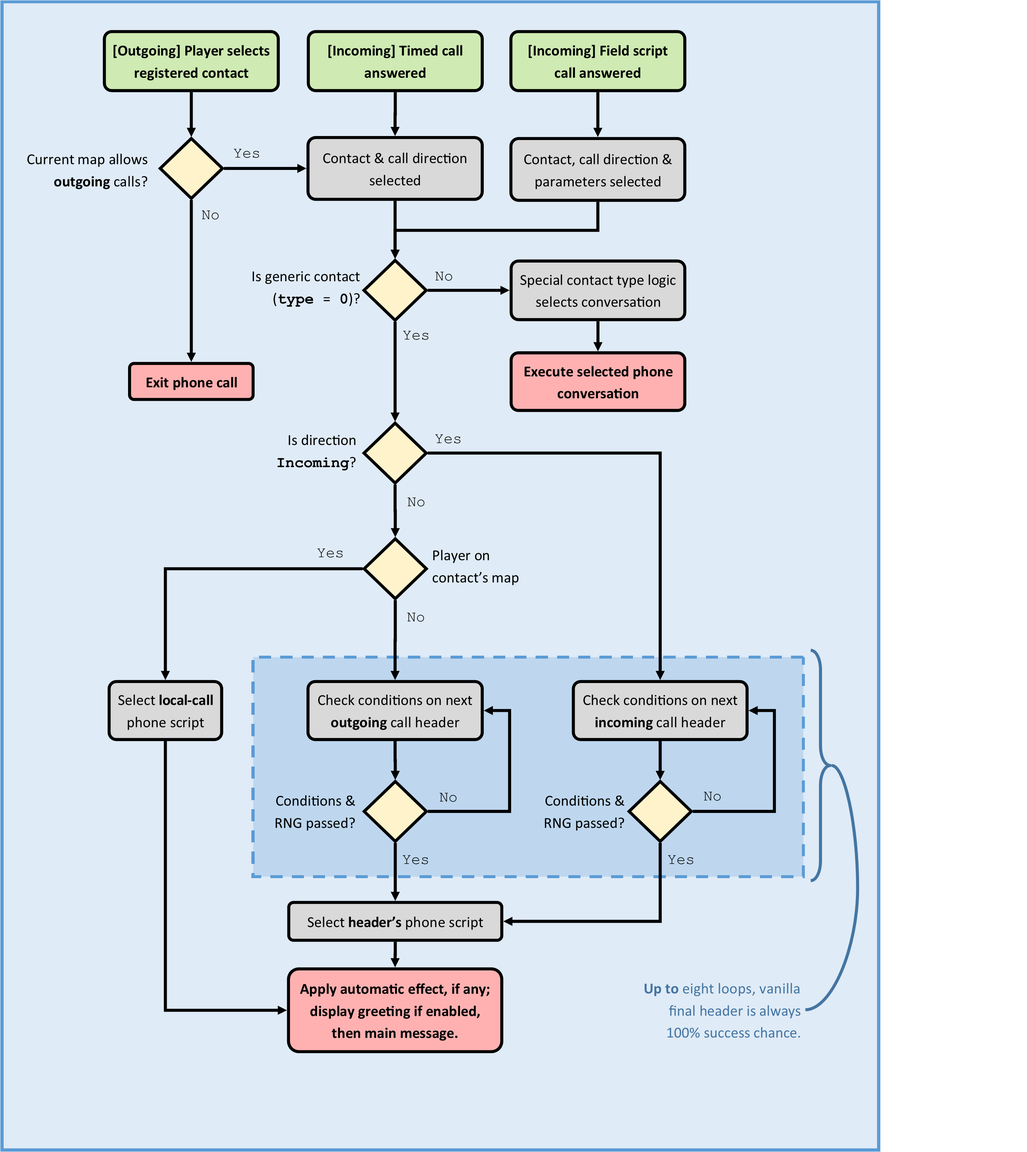
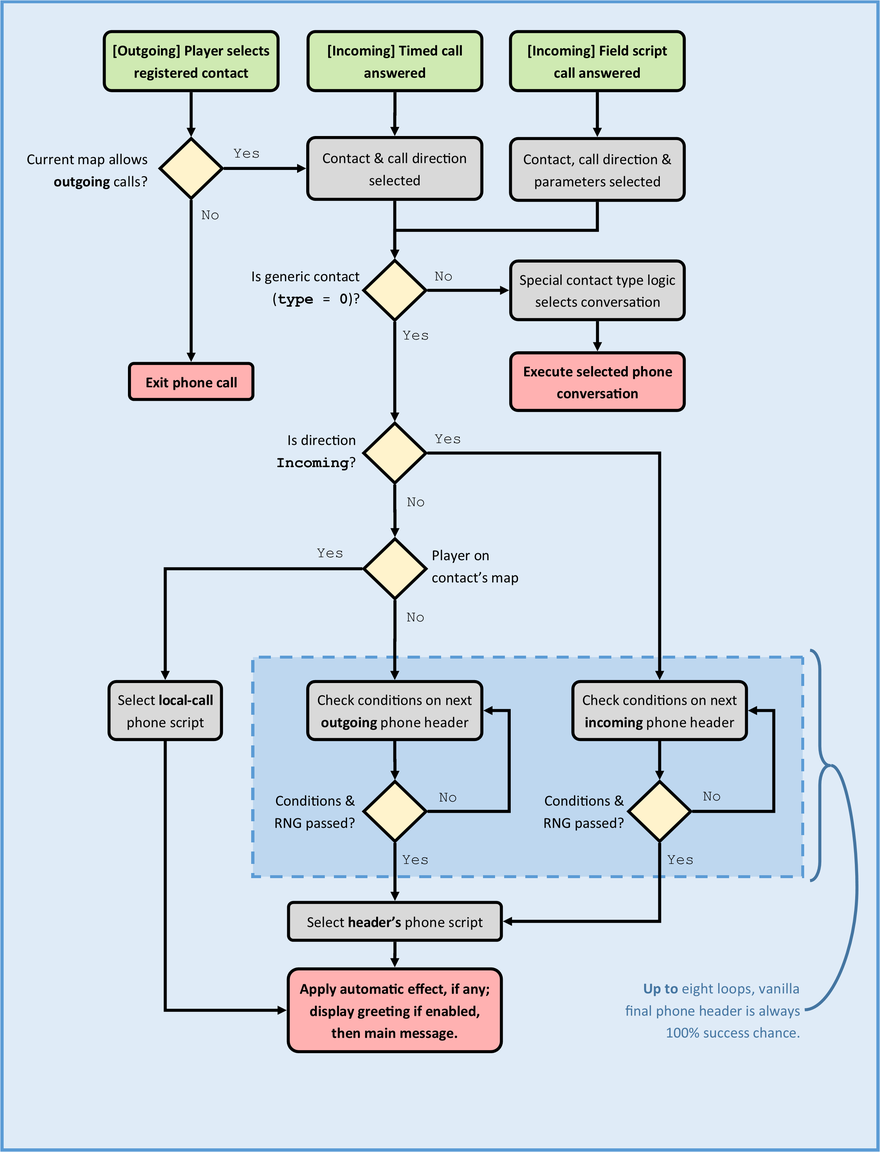
renamed "call header" to "phone header" to be consistent with phone scripts

diff --git a/docs/generation-iv/guides/hgss-pokegear_phone_system/hgss-pokegear_phone_system.md b/docs/generation-iv/guides/hgss-pokegear_phone_system/hgss-pokegear_phone_system.md
@@ -24,7 +24,7 @@ The system is easiest to follow in the same order as a call moves through it:
 
 1. [**Phonebook data**](#phonebook-data) defines the contacts and their properties; [field scripts register their numbers](#registering-phone-numbers).
 2. [**Incoming and outgoing calls**](#incoming-and-outgoing-calls) explains how a call starts and, for a random incoming call, how the caller is chosen.
-3. [**Phone conversations**](#phone-conversations) explains what the chosen contact says and does. A generic contact (contact type `0`) uses call headers and phone scripts; a special contact uses its own selection logic.
+3. [**Phone conversations**](#phone-conversations) explains what the chosen contact says and does. A generic contact (contact type `0`) uses phone headers and phone scripts; a special contact uses its own selection logic.
 4. [**Trainer rematches**](#trainer-rematches) and [**gifts after calls and rematches**](#gifts-after-calls-and-rematches) explain how battles are selected and items are awarded.
 
 Later sections describe [saved phone state](#saved-phone-state), illustrate the system through [case studies](#case-studies), and give [example edits](#example-edits). Expansion sections cover [rematch tiers](#extending-rematch-tiers), [queued event calls](#expanding-queued-event-calls), and [additional contacts](#expanding-beyond-75-contacts).
@@ -44,7 +44,7 @@ The following table maps the phone data and code.
 |---|---|---|
 | Contact records | `tel/pmtel_book.dat` | 75 contacts with their contact type, trainer battle, map, item, local-call phone script, schedule, and random-call group. |
 | Contact text-archive lookup | ARM9 `0x10847C`-`0x108511` | One message-archive ID for each contact ID; archive message `0` is the contact name. |
-| Conversation data | Overlay 101 `0x1143C`-`0x13B6B` | Generic call headers, plus phone-script and greeting tables also used by some special contacts. |
+| Conversation data | Overlay 101 `0x1143C`-`0x13B6B` | Generic phone headers, plus phone-script and greeting tables also used by some special contacts. |
 | Contact-specific conversation code | Overlay 101 `0xB0A4`-`0xCD3F` | Special-contact selectors and display routines, with generic-call code interleaved. See the [decomp routines](https://github.com/pret/pokeheartgold/tree/master/src/application/pokegear/phone/scripts). |
 | Queued system-event definitions | Overlay 2 `0xE104`-`0xE151` | Caller, phone-script ID, and forced-pickup setting for the 13 queued triggers. |
 | Rematch battle lookup | Overlay 26 `0x20C`-`0x4FF` | Six battle IDs for each of 63 ordinary-trainer or Gym Leader rematch rows. |
@@ -187,7 +187,7 @@ Values from `tel/pmtel_book.dat`, in file order. Record offsets are hexadecimal;
 
 | Value | Decomp name | Contacts / effect |
 |:---:|---|---|
-| `0` | `GENERIC` | 45 contacts (60% of the phonebook). Uses generic call-header and phone-script tables. |
+| `0` | `GENERIC` | 45 contacts (60% of the phonebook). Uses generic phone-header and phone-script tables. |
 | `1` | `MOM` | Mom's savings and gift-queue logic. |
 | `2` | `PROF_ELM` | Elm's story-flag, badge, Egg, and Pokérus logic. |
 | `3` | `PROF_OAK` | Oak's dedicated call logic. |
@@ -318,6 +318,12 @@ Unlike in the original Generation II games, the Pokégear phonebook can hold eve
 
 > Research: [pokeheartgold: phone ring manager and queued-event table](https://github.com/pret/pokeheartgold/blob/master/src/field/overlay_2_gear_phone.c), [map-header phone permissions](https://github.com/pret/pokeheartgold/blob/master/include/map_header.h).
 
+Incoming calls start in three ways:
+
+- **Field-script calls** start from a scripted event, such as entering a map or speaking to an NPC.
+- **Random incoming calls** provide recurring conversations, rematches and gifts, subject to conditions including story progress.
+- **Queued event calls** follow a recorded event, such as Elm's Egg hatching, without requiring a field script on the player's current map. They wait until incoming calls are permitted.
+
 Incoming and outgoing calls use different map permissions and different dialogue selection paths.
 
 | Direction | Decomp function | What it controls |
@@ -331,7 +337,7 @@ The call-mode field (`isScriptedCall` in decomp) uses `0` for normal outgoing an
 
 ### Outgoing
 
-An outgoing call begins when the player selects a registered contact in the Pokégear. Outgoing calls must be enabled in the current map header. The selected contact's `type`, `mapId`, and, for contacts of type `0`, the generic outgoing call headers determine the conversation.
+An outgoing call begins when the player selects a registered contact in the Pokégear. Outgoing calls must be enabled in the current map header. The selected contact's `type`, `mapId`, and, for contacts of type `0`, the generic outgoing phone headers determine the conversation.
 
 ### Incoming: time trigger
 
@@ -507,7 +513,7 @@ Not every incoming call uses the queued trigger-bit table. A normal field script
 
 `predefinedScript` is also limited to `0`-`255` by the call manager.
 
-Generic contacts ignore the supplied script value and use their incoming call headers if `SetPhoneCall` *[contactId]* `2` `0`, followed by `RunPhoneCall` were used.
+Generic contacts ignore the supplied script value and use their incoming phone headers if `SetPhoneCall` *[contactId]* `2` `0`, followed by `RunPhoneCall` were used.
 :::
 
 #### Starting a call on map entry
@@ -526,35 +532,35 @@ Use **`MecScript` (`0x261`, decomp `ScrCmd_609`)** to reset the following Pokém
 
 A **phone conversation** is the interaction shown to the player. Its messages and effects come from a **phone-script record** or specialised call code.
 
-- **Generic contacts** (type `0`; 45 of the 75 contacts) use call headers to select phone scripts. Their conversations are linear, with no Yes/No choices.
+- **Generic contacts** (type `0`; 45 of the 75 contacts) use phone headers to select phone scripts. Their conversations are linear, with no Yes/No choices.
 - **Special contacts** (all other types) use their own selection code and may reuse phone scripts. Some conversations are interactive: Mom can ask about savings, and Gym Leaders can ask whether to arrange a rematch.
 
 Special-contact conditions are defined in the [phone scripts source directory](https://github.com/pret/pokeheartgold/tree/master/src/application/pokegear/phone/scripts). The sections below cover [Professor Elm](#professor-elm-story-calls-and-status-calls) and [all 16 Gym Leaders](#gym-leader-conversations).
 
 ![](resources/phone_conversations_flow.png)
 
-Conversation selection and display run in the phone application’s compiled code. A field script can launch the call, but does not perform the call-header checks or apply the phone-script effect itself.
+Conversation selection and display run in the phone application’s compiled code. A field script can launch the call, but does not perform the phone-header checks or apply the phone-script effect itself.
 
 ### Phone conversations: the four parts
 
-> Research: [pokeheartgold: generic call headers and greetings](https://github.com/pret/pokeheartgold/blob/master/src/application/pokegear/phone/phone_generic_headers.c), [phone-script definitions](https://github.com/pret/pokeheartgold/blob/master/src/application/pokegear/phone/phone_script_defs.c), [generic call selection](https://github.com/pret/pokeheartgold/blob/master/src/application/pokegear/phone/scripts/phone_scripts_generic.c).
+> Research: [pokeheartgold: generic phone headers and greetings](https://github.com/pret/pokeheartgold/blob/master/src/application/pokegear/phone/phone_generic_headers.c), [phone-script definitions](https://github.com/pret/pokeheartgold/blob/master/src/application/pokegear/phone/phone_script_defs.c), [generic call selection](https://github.com/pret/pokeheartgold/blob/master/src/application/pokegear/phone/scripts/phone_scripts_generic.c).
 
 The same four parts explain generic and special-contact conversations:
 
 | Part | Purpose | How it works |
 |---|---|---|
-| **Conversation selection** | Chooses what the contact will discuss. | Generic contacts use [call headers](#call-headers-selecting-a-conversation), or their local-call phone script. Special contacts use type-specific code. Queued and field-script calls can supply a script ID or selection index. |
+| **Conversation selection** | Chooses what the contact will discuss. | Generic contacts use [phone headers](#phone-headers-selecting-a-conversation), or their local-call phone script. Special contacts use type-specific code. Queued and field-script calls can supply a script ID or selection index. |
 | **Messages and effects** | Determines dialogue, choices and changes to game state. | A [phone-script record](#phone-scripts-message-and-automatic-effect) supplies message IDs and an optional automatic effect, or specialised code controls the conversation. |
 | [**Greeting selection (optional)**](#greeting-selection-selecting-an-opening-remark) | Selects a separate opening remark. | Calls using the shared greeting routine select from the greeting table. Other conversations can include their greeting in their own text. |
 | [**Dialogue text**](#dialogue-common-greeting-text-and-contact-specific-text) | Supplies the displayed words, including substitutions. | The contact's text archive supplies its messages; shared greetings use archive `0640`. |
 
 For calls using the basic phone-script display routine, the automatic effect is applied first, followed by any shared greeting and the main message.
 
-### Call headers: selecting a conversation
+### Phone headers: selecting a conversation
 
-> Research: [pokeheartgold: generic call headers](https://github.com/pret/pokeheartgold/blob/master/src/application/pokegear/phone/phone_generic_headers.c), [generic header conditions and selection](https://github.com/pret/pokeheartgold/blob/master/src/application/pokegear/phone/scripts/phone_scripts_generic.c).
+> Research: [pokeheartgold: generic phone headers](https://github.com/pret/pokeheartgold/blob/master/src/application/pokegear/phone/phone_generic_headers.c), [generic header conditions and selection](https://github.com/pret/pokeheartgold/blob/master/src/application/pokegear/phone/scripts/phone_scripts_generic.c).
 
-Every contact has 16 six-byte call-header slots: eight incoming and eight outgoing, regardless of contact type. The table occupies Overlay 101 offsets `0x11F4C`-`0x13B6B`. Only the generic contact route (type `0`) uses these headers to select a conversation; special-contact logic uses its own selection route.
+Every contact has 16 six-byte phone-header slots: eight incoming and eight outgoing, regardless of contact type. The table occupies Overlay 101 offsets `0x11F4C`-`0x13B6B`. Only the generic contact route (type `0`) uses these headers to select a conversation; special-contact logic uses its own selection route.
 
 For contact ID `c`, the outgoing block begins at `0x11F4C + (c × 0x60)` and the incoming block at `0x11F7C + (c × 0x60)`. Each block holds eight six-byte slots; add `slot × 6` for slot `0`-`7`.
 
@@ -569,16 +575,16 @@ bytes 4-5: little-endian phone-script ID
 
 The generic selector checks up to eight slots for the current direction, in order. Unused slots use `NIL` (`00 64 00 00 00 00`), a terminator with unused 100%-chance/script-`0` fields, or `NONE` (`FF 00 00 00 00 00`), a zeroed placeholder. An outgoing call made while the player is on the contact's own `mapId` bypasses those outgoing slots. It forces `scriptType` to `0` and uses the contact record's `phoneScriptIfLocal` value as the phone-script ID.
 
-#### Call-header condition types
+#### Phone-header condition types
 
-The first byte of a call header determines whether its phone script is eligible. Where a condition reaches its final chance test, it makes a random roll from `0` through `99` and succeeds when the result is **less than or equal to** the header's chance byte. Thus chance `100` always succeeds, while values `0`-`99` succeed `1%`-`100%` of the time.
+The first byte of a phone header determines whether its phone script is eligible. Where a condition reaches its final chance test, it makes a random roll from `0` through `99` and succeeds when the result is **less than or equal to** the header's chance byte. Thus chance `100` always succeeds, while values `0`-`99` succeed `1%`-`100%` of the time.
 
 <details>
 <summary>Click for details...</summary>
 
 | Byte | Decomp name | Header is eligible when... |
 |:---:|---|---|
-| `00` | `NIL` | Stops the current group of up to eight call headers. Vanilla uses `00 64 00 00 00 00`; the chance and phone-script fields are not read. |
+| `00` | `NIL` | Stops the current group of up to eight phone headers. Vanilla uses `00 64 00 00 00 00`; the chance and phone-script fields are not read. |
 | `01` | `RAND1` | Its chance roll succeeds. Identical to `RAND6`. |
 | `02` | `FIGHTPOSTROCKETS` | No rematch is pending and no phone-call gift is queued (`PhoneRematch.seeking` and `PhoneRematch.giftItem` are clear); if this header uses `scriptType` `0` and selects a `REMATCH` phone script, flag `0xC6` (`198`, decomp name: `FLAG_BEAT_RADIO_TOWER_ROCKETS`) is set; then its chance roll succeeds. |
 | `03` | `POSTROCKETWEEKTIME` | `FLAG_BEAT_RADIO_TOWER_ROCKETS` (`0xC6`) is set, the contact's weekday (`rematchWeekday`) and time-of-day (`rematchTimeOfDay`) fields match the current time, and its chance roll succeeds. |
@@ -587,13 +593,13 @@ The first byte of a call header determines whether its phone script is eligible.
 | `06` | `RAND6` | Its chance roll succeeds. Identical to `RAND1`. |
 | `07` | `FIGHTPOSTROCKETSNOTBUGCONTEST` | `FLAG_BEAT_RADIO_TOWER_ROCKETS` (`0xC6`) is set; a rematch is already pending (`PhoneRematch.seeking` is set); either the contact's `mapId` is not National Park or `FLAG_UNK_996` (`0x996`) is clear; then its chance roll succeeds. |
 | `08` | `GIFTNOTBUGCONTEST` | A phone-call gift is already queued (`PhoneRematch.giftItem` is set); either the contact's `mapId` is not National Park or `FLAG_UNK_996` (`0x996`) is clear; then its chance roll succeeds. |
-| `FF` | `NONE` | Stops the current group of up to eight call headers. Vanilla uses `FF 00 00 00 00 00` for unused slots. |
+| `FF` | `NONE` | Stops the current group of up to eight phone headers. Vanilla uses `FF 00 00 00 00 00` for unused slots. |
 
 `NIL` and `NONE` stop the scan. If no header passes, the selector uses the last tested header even though its condition failed; an initial terminator returns script `0`. Keep an unconditional final candidate when editing headers.
 
 </details>
 
-`scriptType` is unrelated to the contact type and to the result stored in the phone script. For generic call headers, vanilla uses these three values:
+`scriptType` is unrelated to the contact type and to the result stored in the phone script. For generic phone headers, vanilla uses these three values:
 
 <details>
 <summary>Click for details...</summary>
@@ -609,7 +615,7 @@ The field is a direct index into the game's table of call code. It is not anothe
 </details>
 
 <details>
-<summary>Call-header binary reference</summary>
+<summary>Phone-header binary reference</summary>
 
 The generic selector is `PhoneCall_GetScriptId_Generic`. The generic display-code pointers for `scriptType` `0`, `1`, and `2` are in the Overlay 101 dispatch table at file offset `0x10F3C`; they point to RAM addresses `0x21F2681`, `0x21F2F51`, and `0x21F2FFD` respectively.
 
@@ -647,7 +653,7 @@ For example, Gina's Leaf Stone script `257` at Overlay 101 offset `0x11A42` is `
 
 The table has 456 records (IDs `0`-`455`). Only script `0` is all zeroes; it is the shared `PHONE_SCRIPT_NONE` record, not a spare slot.
 
-The following 15 populated records appear to have no vanilla selection path (call headers, phonebook local-call IDs, queued events, field-script calls and special-contact selectors), they are possible candidates for reuse without enlarging the table.
+The following 15 populated records appear to have no vanilla selection path (phone headers, phonebook local-call IDs, queued events, field-script calls and special-contact selectors), they are possible candidates for reuse without enlarging the table.
 
 <details>
 <summary>Unreferenced records and Overlay 101 offsets</summary>
@@ -661,7 +667,7 @@ The following 15 populated records appear to have no vanilla selection path (cal
 | Chad | `113` (`0x116E2`); `114` (`0x116E8`); `115` (`0x116EE`) |
 | Brent | `121` (`0x11712`); `122` (`0x11718`); `123` (`0x1171E`) |
 
-All contain message IDs with result `NONE` and both parameters `0`. Be aware that any existing contact archive's messages may still be used by other conversation code. Supply message IDs from the intended caller's archive and select the reused record through that caller's call headers or special-call logic.
+All contain message IDs with result `NONE` and both parameters `0`. Be aware that any existing contact archive's messages may still be used by other conversation code. Supply message IDs from the intended caller's archive and select the reused record through that caller's phone headers or special-call logic.
 
 Elm's script `6` is a separate case: his direct-call table references it, but no vanilla field script selects that table entry. It is therefore not included in the unreferenced list.
 
@@ -728,7 +734,7 @@ This section includes some details on some of the special call logic (that doesn
 <details>
 <summary>Click for details...</summary>
 
-Elm is contact type `2`, so he does not use generic call headers. His selector has three routes:
+Elm is contact type `2`, so he does not use generic phone headers. His selector has three routes:
 
 | Call route | How the conversation is chosen |
 |---|---|
@@ -738,7 +744,7 @@ Elm is contact type `2`, so he does not use generic call headers. His selector h
 
 Elm's selector, `PhoneCall_GetScriptId_ProfElm`, starts at Overlay 101 offset `0xB2E8` (RAM `0x21F2A28`).
 
-All three routes use display handler `0`, the ordinary phone-script display routine (`GearPhoneCall_Simple` at Overlay 101 offset `0xAF40`). The direct-call and queued-call routes therefore choose an existing phone script; they do not use generic call headers.
+All three routes use display handler `0`, the ordinary phone-script display routine (`GearPhoneCall_Simple` at Overlay 101 offset `0xAF40`). The direct-call and queued-call routes therefore choose an existing phone script; they do not use generic phone headers.
 
 <details>
 <summary>Outgoing calls: priority conditions and phone-script IDs</summary>
@@ -774,7 +780,7 @@ For an outgoing call, the first matching condition wins:
 <details>
 <summary>Click for details...</summary>
 
-All sixteen Gym Leaders use contact type `12`. They do not use generic call headers or the ordinary Radio Tower availability condition. Their shared selector chooses display handler `13` for an outgoing call and `14` for an incoming call; these are handler indexes, not contact types or phone-script IDs.
+All sixteen Gym Leaders use contact type `12`. They do not use generic phone headers or the ordinary Radio Tower availability condition. Their shared selector chooses display handler `13` for an outgoing call and `14` for an incoming call; these are handler indexes, not contact types or phone-script IDs.
 
 The shared routines start at these Overlay 101 offsets:
 
@@ -837,7 +843,7 @@ For ordinary generic contacts, flag `0xC6` (`198`, `FLAG_BEAT_RADIO_TOWER_ROCKET
 <details>
 <summary>Changing the availability flag: binary locations and alternative milestones</summary>
 
-The three [call-header conditions](#call-header-condition-types) below read this flag. File offsets are in Overlay 101, which loads at `0x21E7740`:
+The three [phone-header conditions](#phone-header-condition-types) below read this flag. File offsets are in Overlay 101, which loads at `0x21E7740`:
 
 | Header condition | What the condition adds | Function entry | `0xC6` load |
 | --- | --- | --- | --- |
@@ -856,7 +862,7 @@ The following existing low-byte milestone flags could be substituted for some ot
 | `FLAG_GOT_TM30_FROM_MORTY` (`0xA6`, `166`) | `A6` | Beating Morty and receiving TM30. |
 | `FLAG_GOT_HM03` (`0xA2`, `162`) | `A2` | Receiving HM03 at the Dance Theatre. |
 
-Use these existing flags as read-only conditions; changing their setters affects their original behaviour. Tier unlocks and the other call-header conditions still apply.
+Use these existing flags as read-only conditions; changing their setters affects their original behaviour. Tier unlocks and the other phone-header conditions still apply.
 
 </details>
 
@@ -1085,11 +1091,11 @@ Within `PhoneCallPersistentState`, Mom’s queue begins at `0x12C`, the followin
 
 ### Picnicker Gina's Leaf Stone call
 
-> Research: [pokeheartgold: generic call headers](https://github.com/pret/pokeheartgold/blob/master/src/application/pokegear/phone/phone_generic_headers.c), [phone-script definitions](https://github.com/pret/pokeheartgold/blob/master/src/application/pokegear/phone/phone_script_defs.c), [shared phone-trainer field script](https://github.com/pret/pokeheartgold/blob/master/files/fielddata/script/scr_seq/scr_seq_0953.s).
+> Research: [pokeheartgold: generic phone headers](https://github.com/pret/pokeheartgold/blob/master/src/application/pokegear/phone/phone_generic_headers.c), [phone-script definitions](https://github.com/pret/pokeheartgold/blob/master/src/application/pokegear/phone/phone_script_defs.c), [shared phone-trainer field script](https://github.com/pret/pokeheartgold/blob/master/files/fielddata/script/scr_seq/scr_seq_0953.s).
 
 Gina's Leaf Stone call is an **incoming** generic call and a **phone-call gift**. It is not a rematch reward.
 
-First, the [incoming random-call selector](#incoming-time-trigger) must choose Gina: she must be registered, eligible for the chosen `unkF` group, and not excluded by the current map or her group's recent-caller history. The generic code then checks Gina's incoming [call headers](#call-headers-selecting-a-conversation) in priority order. Her seven candidate headers are followed by a terminating control row:
+First, the [incoming random-call selector](#incoming-time-trigger) must choose Gina: she must be registered, eligible for the chosen `unkF` group, and not excluded by the current map or her group's recent-caller history. The generic code then checks Gina's incoming [phone headers](#phone-headers-selecting-a-conversation) in priority order. Her seven candidate headers are followed by a terminating control row:
 
 | Priority | Condition | Chance value | Phone script | Purpose |
 |:---:|---|:---:|:---:|---|
@@ -1109,11 +1115,11 @@ The call does not give the item directly. When the player next talks to Gina, he
 
 ### Youngster Joey's rematch
 
-> Research: [pokeheartgold: generic call headers](https://github.com/pret/pokeheartgold/blob/master/src/application/pokegear/phone/phone_generic_headers.c), [ordinary generic call logic](https://github.com/pret/pokeheartgold/blob/master/src/application/pokegear/phone/scripts/phone_scripts_generic.c), [Overlay 26 rematch selector](https://github.com/pret/pokeheartgold/blob/master/src/overlay_26_022598C0.c).
+> Research: [pokeheartgold: generic phone headers](https://github.com/pret/pokeheartgold/blob/master/src/application/pokegear/phone/phone_generic_headers.c), [ordinary generic call logic](https://github.com/pret/pokeheartgold/blob/master/src/application/pokegear/phone/scripts/phone_scripts_generic.c), [Overlay 26 rematch selector](https://github.com/pret/pokeheartgold/blob/master/src/overlay_26_022598C0.c).
 
 Joey is a generic (type `0`) phone trainer on Route 30. His contact record supplies the original trainer battle, a Monday/day schedule, and a fixed HP Up rematch reward.
 
-If no rematch is already pending and the player calls from another map on Monday during the day, Joey's outgoing `POSTROCKETWEEKTIME` call header selects phone script `033`. It requires the Radio Tower flag `0xC6` and sets Joey's pending-rematch state. If Joey is chosen for an ordinary random incoming call, his separate incoming header can offer the same rematch without the weekday/time requirement. Either route leads to the same pending state; see [Rematch availability conditions](#rematch-availability-conditions).
+If no rematch is already pending and the player calls from another map on Monday during the day, Joey's outgoing `POSTROCKETWEEKTIME` phone header selects phone script `033`. It requires the Radio Tower flag `0xC6` and sets Joey's pending-rematch state. If Joey is chosen for an ordinary random incoming call, his separate incoming header can offer the same rematch without the weekday/time requirement. Either route leads to the same pending state; see [Rematch availability conditions](#rematch-availability-conditions).
 
 When the player next speaks to Joey, the shared trainer field script finds his Overlay 26 row from his trainer ID. For his first upgraded team, two separate flags matter: `0xC6` (`198`) allows the phone call to offer a rematch; `0x97D` (`2429`) unlocks entry `2` when the battle is selected. Vanilla Radio Tower completion sets both. With only `0xC6` set and no tier flags unlocked, a rematch can be arranged but falls back to Joey's original team. After a victory, the field script clears the pending rematch and awards his HP Up reward if there is Bag space. See [Rematch flow](#rematch-flow) and [Gifts after calls and rematches](#gifts-after-calls-and-rematches).
 
@@ -1137,7 +1143,7 @@ Answering clears trigger bit `12`, but leaves the purchase queued. At a Poké Ma
 
 > Research: [pokeheartgold: Gym Leader phone logic](https://github.com/pret/pokeheartgold/blob/master/src/application/pokegear/phone/scripts/phone_scripts_gym_leader.c), [Overlay 26 rematch selector](https://github.com/pret/pokeheartgold/blob/master/src/overlay_26_022598C0.c).
 
-Falkner is a special contact (type `12`), so his outgoing call does not use generic call headers or the ordinary Radio Tower availability condition. The player must call from another map, hold all 16 badges, have no rematch already pending, and call at Falkner's configured weekday and time. The call then asks whether to arrange the battle; accepting sets Falkner's pending-rematch state.
+Falkner is a special contact (type `12`), so his outgoing call does not use generic phone headers or the ordinary Radio Tower availability condition. The player must call from another map, hold all 16 badges, have no rematch already pending, and call at Falkner's configured weekday and time. The call then asks whether to arrange the battle; accepting sets Falkner's pending-rematch state.
 
 The Fighting Dojo script checks Falkner's Overlay 26 row `47` through `GetPhoneBookRematch`. A nonzero result makes him appear, but his interaction launches the fixed trainer battle ID `712`. Changing the row alone will not change his team; see [Gym Leader rematches](#gym-leader-rematches).
 
@@ -1207,7 +1213,7 @@ These options can be used independently or combined to increase Gina's incoming 
 
 #### Increase Gina's gift-offer chance
 
-1. Open decompressed `ov101.bin` from your DSPRE contents folder. See [Call headers](#call-headers-selecting-a-conversation).
+1. Open decompressed `ov101.bin` from your DSPRE contents folder. See [Phone headers](#phone-headers-selecting-a-conversation).
 2. At `0x131F5`, replace `0A` with `31`. This increases the gift-offer chance from 11% to 50% when its header is reached and eligible. If you have already swapped the gift and rematch headers, edit `0x131EF` instead.
 3. Save the file, move any automatically generated backup files outside the contents folder, then rebuild the ROM using DSPRE.
 
@@ -1220,7 +1226,7 @@ These options can be used independently or combined to increase Gina's incoming 
 
 #### Reduce Gina's competing rematch offers
 
-1. Open decompressed `ov101.bin` from your DSPRE contents folder. See [Call-header condition types](#call-header-condition-types).
+1. Open decompressed `ov101.bin` from your DSPRE contents folder. See [Phone-header condition types](#phone-header-condition-types).
 2. At `0x131EF`, replace `1E` with `09`. This reduces the rematch-offer chance from 31% to 10%, allowing more calls to reach the gift header.
 3. Save the file, move any automatically generated backup files outside the contents folder, then rebuild the ROM using DSPRE.
 
@@ -1246,7 +1252,7 @@ These options can be used independently or combined to increase Gina's incoming 
 
 #### Allow Gina to offer a Leaf Stone when called by the Player
 
-1. Open decompressed `ov101.bin` from your DSPRE contents folder. See [Call headers](#call-headers-selecting-a-conversation).
+1. Open decompressed `ov101.bin` from your DSPRE contents folder. See [Phone headers](#phone-headers-selecting-a-conversation).
 2. Copy the six-byte fallback record `01 64 00 00 00 01` from `0x131C4` to `0x131CA`, replacing the unused record there.
 3. At `0x131C4`, write `02 05 00 00 01 01`. This adds a 6% chance of selecting Gina's existing Leaf Stone phone script `257` when earlier headers do not take precedence and no rematch or gift is pending.
 4. Save the file, move any automatically generated backup files outside the contents folder, then rebuild the ROM using DSPRE.
@@ -1339,7 +1345,7 @@ Adding additional contacts would be an involved piece of work, this guide does n
 - The phonebook count and every contact-ID range check or fixed loop;
 - The saved registered-contact/order list and the per-contact rematch/phone-call-gift array, including the data which immediately follows them and the total save-block size;
 - Contact-indexed UI data and sort ranks;
-- For each new generic contact: 16 call headers, a text-archive mapping and dialogue, and phone-script records for its conversations, including the local call. Repurpose suitable records or expand and repoint the phone-script table as needed; and
+- For each new generic contact: 16 phone headers, a text-archive mapping and dialogue, and phone-script records for its conversations, including the local call. Repurpose suitable records or expand and repoint the phone-script table as needed; and
 - Migration or deliberate invalidation of existing saves.
 
 Greeting rows may be reused, as they are already shared in vanilla. The individual limits described elsewhere on this page are parts of this one expansion task, not separate data-only edits.
